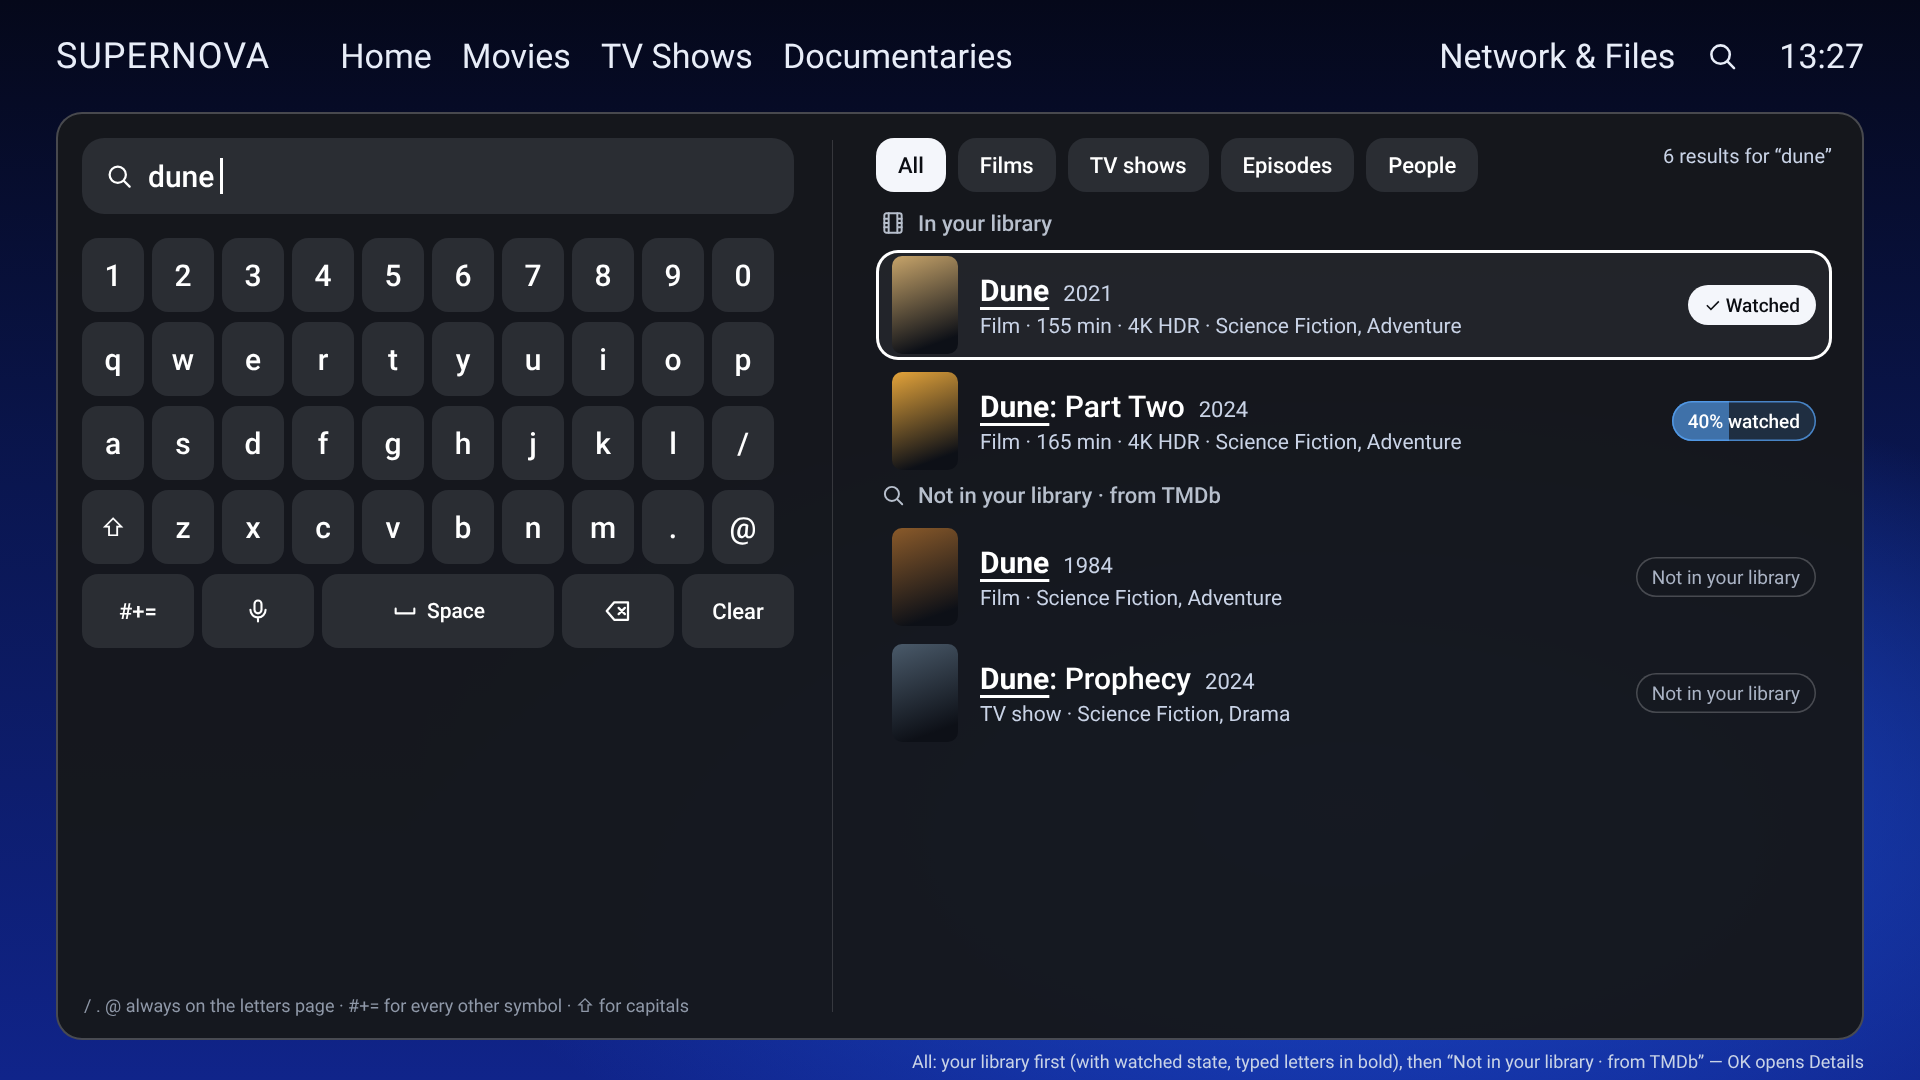
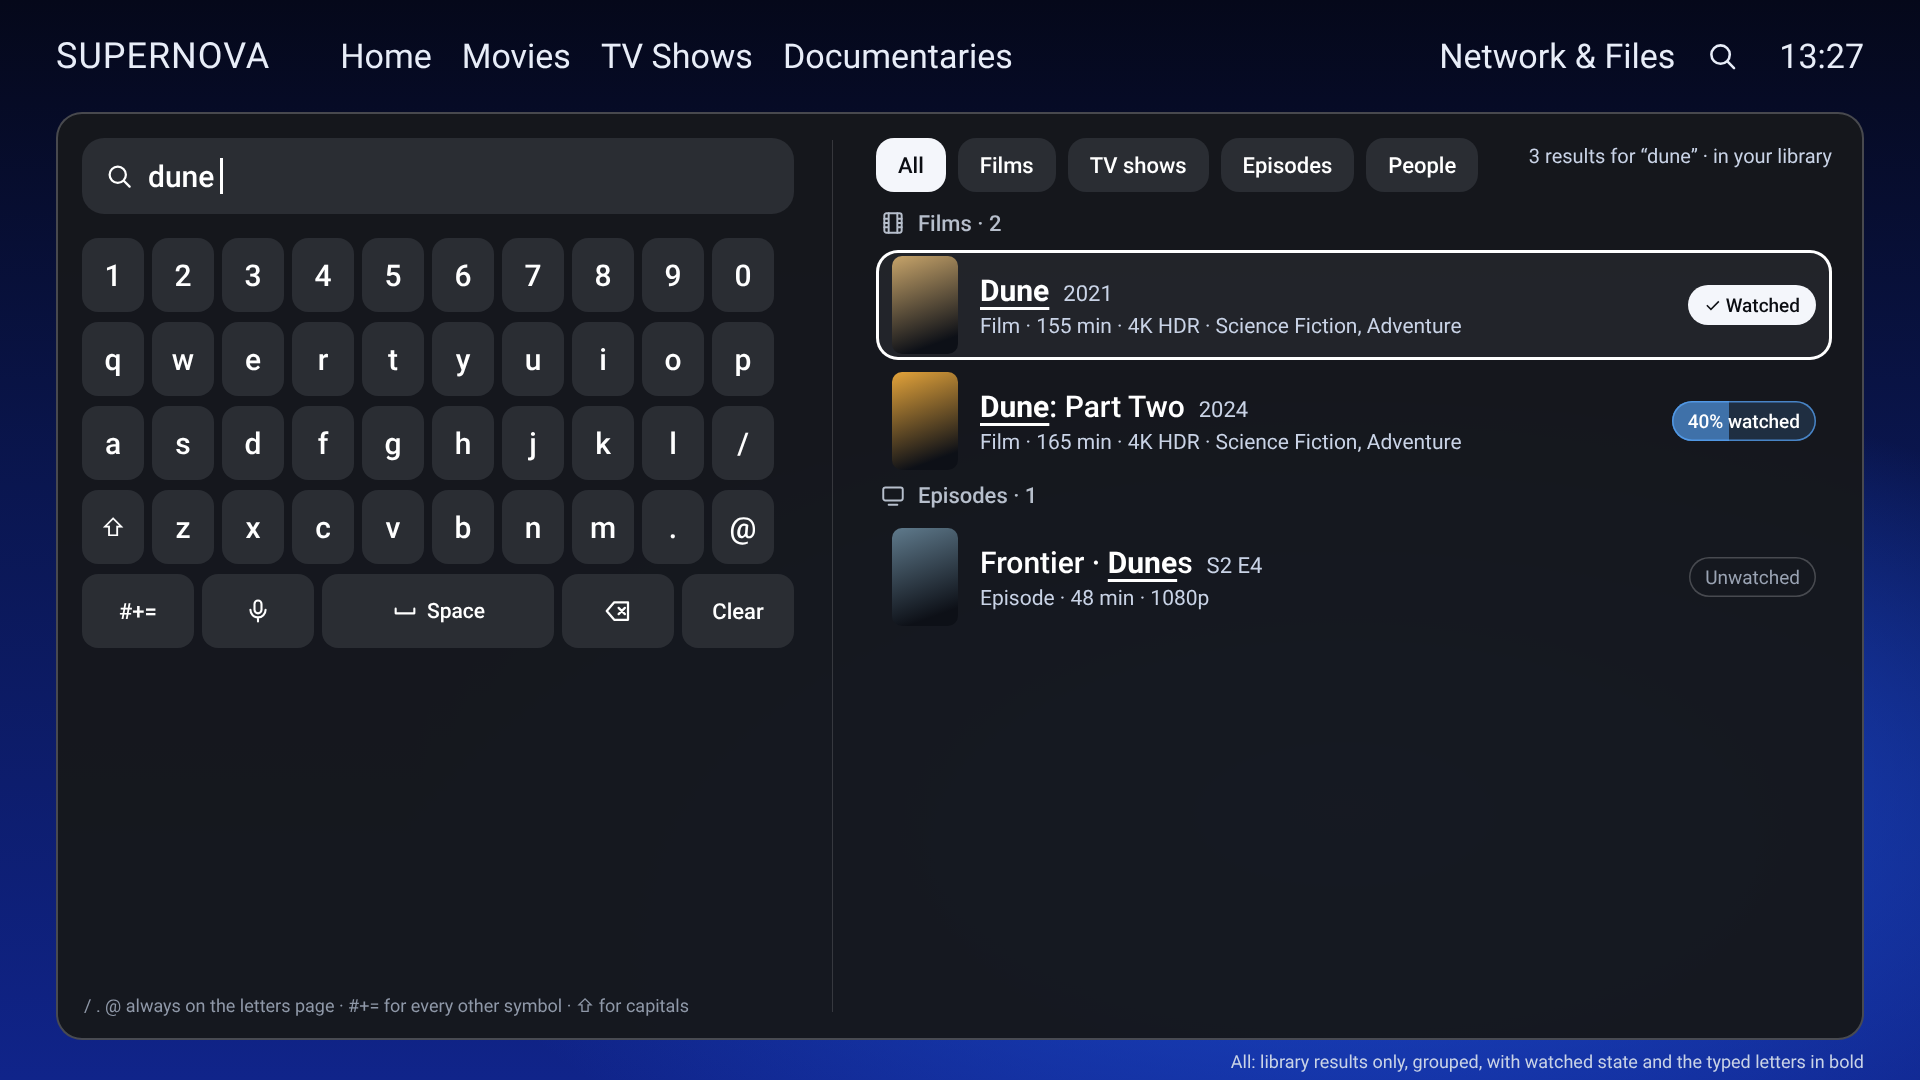
Search: drop TMDb discovery results (owner); 05-06 library only
Claude-Session: https://claude.ai/code/session_01FtDZqamY6pdaUKwc7fqgiA

diff --git a/docs/design/proposals/search/render.js b/docs/design/proposals/search/render.js
@@ -39,21 +39,19 @@ const hl = (t, q) => t.replace(new RegExp('(' + q + ')', 'ig'), '<mark>$1</mark>
 const pill = w => `<span class="wp ${w === 1 ? 'done' : w > 0 ? 'part' : 'un'}">${w > 0 && w < 1 ? `<i style="width:${w * 100}%"></i>` : ''}<b>${w === 1 ? '✓ Watched' : w > 0 ? Math.round(w * 100) + '% watched' : 'Unwatched'}</b></span>`;
 const filt = on => `<div class="filters">${['All', 'Films', 'TV shows', 'Episodes', 'People'].map(f => `<span class="fl${on === f ? ' on' : ''}">${f}</span>`).join('')}</div>`;
 const r2 = (c, t, y, l2, w, focus, q, online) => `<div class="r r2${focus ? ' f' : ''}">${poster(c)}<div class="rt"><div class="t1"><b>${hl(t, q)}</b>${y ? `<span class="yr">${y}</span>` : ''}</div><div class="t2">${l2}</div></div><span class="sp2"></span>${online ? '<span class="add">Not in your library</span>' : pill(w)}</div>`;
-const discover = (on) => `<div class="right"><div class="count">${on === 'All' ? '6' : '4'} results for “dune”</div>${filt(on)}
-  <div class="sec">${ic('film', 26)}In your library</div>
+const discover = (on) => `<div class="right"><div class="count">${on === 'All' ? '3' : '2'} results for “dune” · in your library</div>${filt(on)}
+  <div class="sec">${ic('film', 26)}Films · 2</div>
   ${r2('#c7a46a', 'Dune', '2021', 'Film · 155 min · 4K HDR · Science Fiction, Adventure', 1, true, 'dune')}
   ${r2('#e3a33a', 'Dune: Part Two', '2024', 'Film · 165 min · 4K HDR · Science Fiction, Adventure', .4, false, 'dune')}
-  <div class="sec">${ic('search', 26)}Not in your library · from TMDb</div>
-  ${r2('#8a5a2a', 'Dune', '1984', 'Film · Science Fiction, Adventure', 0, false, 'dune', true)}
-  ${on === 'All' ? r2('#4a5a6a', 'Dune: Prophecy', '2024', 'TV show · Science Fiction, Drama', 0, false, 'dune', true) : r2('#6a4a3a', 'Dune Drifter', '2020', 'Film · Science Fiction', 0, false, 'dune', true)}</div>`;
+  ${on === 'All' ? `<div class="sec">${ic('tv', 26)}Episodes · 1</div>${r2('#5f7a8c', 'Frontier · Dunes', 'S2 E4', 'Episode · 48 min · 1080p', 0, false, 'dune')}` : ''}</div>`;
 const browse = `<div class="right"><div class="sec">${ic('clock', 26)}Recent searches<span class="spc"></span><span class="mini">${ic('clear', 20)}Clear recent</span></div>
   <div class="chips">${['dune', 'mr robot', 'slow horses', 'kingdom', 'tulsa king'].map(c => `<span class="chip">${c}</span>`).join('')}</div>
   <div class="sec gap">${ic('film', 26)}Browse</div>
   <div class="tiles">${[['Unwatched', '412 titles'], ['Recently added', 'Last 30 days · 38'], ['Genres', 'Drama, Thriller, Comedy…'], ['Years', '1960s – 2020s']].map(([t, s2]) => `<div class="tile"><b>${t}</b><span>${s2}</span></div>`).join('')}</div>
   <div class="sec gap">What you can search</div><div class="tipline">Titles, original titles, episodes, cast, crew and studios — punctuation, “the” and small typos don’t matter</div></div>`;
 const shots = [
-  ['05-discover-all.png', kb('dune', '') + discover('All'), 'All: your library first (with watched state, typed letters in bold), then “Not in your library · from TMDb” — OK opens Details'],
-  ['06-filter-films.png', kb('dune', '') + discover('Films'), 'Up from the results reaches the filters: Films shows films only, from your library and from TMDb'],
+  ['05-discover-all.png', kb('dune', '') + discover('All'), 'All: library results only, grouped, with watched state and the typed letters in bold'],
+  ['06-filter-films.png', kb('dune', '') + discover('Films'), 'Up from the results reaches the filters: Films shows only the films in your library'],
   ['07-browse-before-typing.png', kb('', 't') + browse, 'Before typing: recent searches, then Browse shortcuts; coming back from Details returns you to the same search and place'],
   ['03-keyboard-letters.png', kb('webdav.put.io/TV', '/', 'abc', false, 'Server address') + `<div class="ctx">The same keyboard is used everywhere — here, adding a network share</div>`, 'Letters page: number row, QWERTY, plus / . @ on the page; #+= opens all other symbols; Shift for capitals'],
   ['04-keyboard-symbols.png', kb('MyP@ss_2026!', '!', 'sym', false, 'Password') + `<div class="ctx">Symbols page: everything a password, URL or file path might need</div>`, 'Symbols page: ! # $ % & * ( ) - _ = + [ ] { } \\ | ~ ` : ; , ? \' " < > ^ — ABC returns to letters'],

diff --git a/docs/0.155/OWNER_NOTES.md b/docs/0.155/OWNER_NOTES.md
@@ -267,11 +267,14 @@ Codex's branch `codex/0155-code-2026-11-04` (DP-01…DP-07, TV-only stages). **N
 9. **Focus memory everywhere** — audit pages that do not return to where you were.
 - **Status:** approved in principle — each gets its mock-up or description for a final look, then awaits go-ahead to code.
 
-## 20. Search: discovery, filters, browse and remembering (design)
+## 20. Search: filters, browse and remembering (design; discovery dropped)
 - **Proposed by Claude, mocked on request (`docs/design/proposals/search/05`–`07`):** results from your library first,
   then **Not in your library · from TMDb** (OK opens the approved "not in your library yet" Details); a filter row
   **All · Films · TV shows · Episodes · People** reached with Up from the results; the watched pill on library results;
   the typed letters bold and underlined in each title; before typing, **Browse** shortcuts (Unwatched, Recently added,
   Genres, Years) under Recent searches; coming back from Details restores the same query, results and position. Play /
   Resume from results via long press or Menu (shared choice list).
-- **Status:** approved by the owner on 4 Nov 2026 (`05`–`07`) — awaiting go-ahead to code.
+- **Owner (4 Nov 2026):** Search must not become a discovery page — **no TMDb / "Not in your library" results** for now
+  (maybe in the future). `05`–`06` re-rendered with library results only. Filters, watched pill, bold match, Browse
+  shortcuts (library only), remembering the search and Play/Resume from results stay.
+- **Status:** approved as revised — awaiting go-ahead to code.
